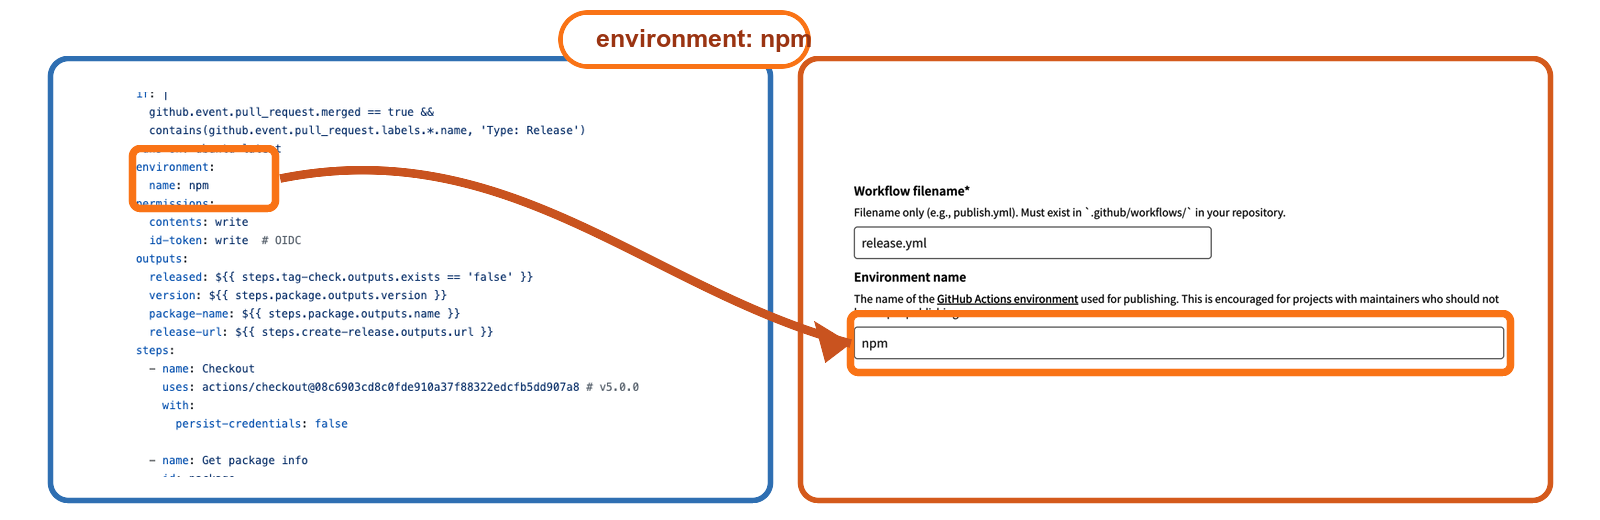
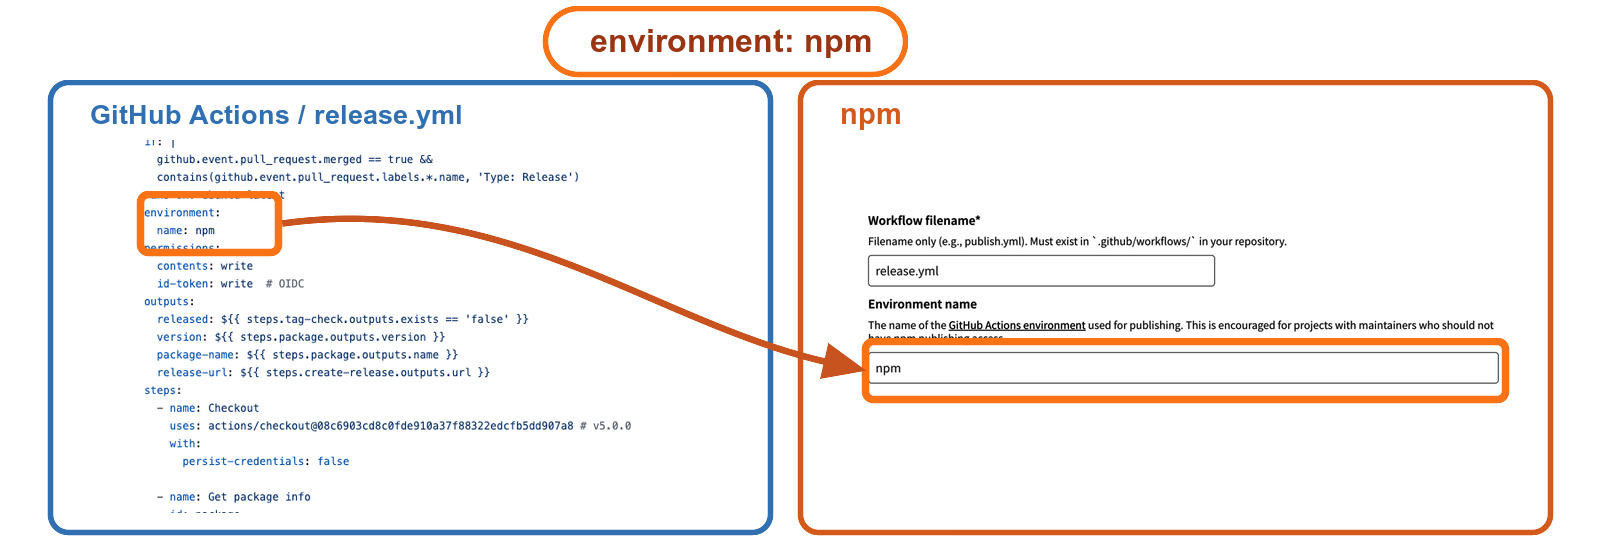
docs: npm公開フロー図を調整

diff --git a/2026/hardening-npm-publishing/slide.md b/2026/hardening-npm-publishing/slide.md
@@ -317,7 +317,7 @@ steps:
 
 # Environment名をnpm側と一致させる
 
-![inline 85%](img/environment-name-screenshots.png)
+![inline 72%](img/environment-name-screenshots.png)
 
 ^ `release.yml` の `environment: npm` はGitHub ActionsのEnvironment名。npm Trusted Publisherにも同じEnvironment nameとして `npm` を登録する。npmはOIDC tokenのclaimに含まれるrepository、workflow file、environmentを見て、登録されたTrusted Publisherと一致するとtoken exchangeする。workflowファイル名だけではなく、Environment名一致と、Environment側のApprove/ref制限まで通って初めてpublishへ進める。
 
@@ -380,26 +380,9 @@ steps:
 
 ---
 
-# 公開までの全体像
+![fit](img/publishing-overview-flow.png)
 
-![inline 95%](img/publishing-overview-flow.png)
-
-^ ここまでの話を一枚にまとめる。細部ではなく、LocalからUsersまでの経路、確認を入れる場所、この発表で扱った対策だけを見る。次のスライドで、この流れをSLSAのSource / Build / Publish / Distribution / Usageに置き直す。
-
----
-
-# SLSAの流れで振り返る
-
-![right fit](img/slsa-threats.png)
-
-- ソース側: PR / review
-- ビルド側: cacheなし / provenance
-- 公開前後: OIDC + Environment + staged
-- 今回の中心はpublish経路で止めること
-
-参考: [SLSA Threats](https://slsa.dev/spec/v1.2/threats)
-
-^ SLSAを認証や達成レベルの話として出すのではない。ここまで話した対策を、SLSAで定義されているサプライチェーンの流れに置き直す。SourceではPRとreview、Buildではcacheを持ち込まないこととprovenance、PublishではOIDC、Environment、staged publishing。今回の中心はArtifact publication(F)に相当するpublish経路。SLSAのBuild trackはbuildやprovenanceの改ざん耐性を上げる話だが、この発表では侵害されてもDistributionへ進ませない制御を中心に話している。
+^ ここまでの話を一枚にまとめる。細部ではなく、LocalからUsersまでの公開経路、確認を入れる場所、この発表で扱った対策だけを見る。この発表の中心は、侵害をゼロにすることではなく、悪いpackageがregistryへ出る前に止めること。
 
 ---
 
@@ -415,7 +398,7 @@ steps:
 1. 権限境界: publish権限へ進む前にApprove
 1. staged publishing: registry公開前にApprove
 
-^ 単独で完結する解決策はない。SLSAの脅威モデルでいうpublish地点に、複数の緩和策を置く。provenanceだけでなく、隔離の考え方とApproveを組み合わせる。目的は侵害をゼロにすることではなく、侵害後に悪いpackageがregistryへ出る経路を細くすること。
+^ 単独で完結する解決策はない。publish地点に複数の緩和策を置く。provenanceだけでなく、隔離の考え方とApproveを組み合わせる。目的は侵害をゼロにすることではなく、侵害後に悪いpackageがregistryへ出る経路を細くすること。
 
 ---
 
@@ -436,7 +419,6 @@ steps:
 - staged例: [github.com/azu/simple-npm-staged-publish-package-example](https://github.com/azu/simple-npm-staged-publish-package-example)
 - Bitwarden CLI侵害: [GMO Flatt Security Blog](https://blog.flatt.tech/entry/bitwarden_compromise)
 - TanStack侵害(cache poisoning): [tanstack.com/blog/npm-supply-chain-compromise-postmortem](https://tanstack.com/blog/npm-supply-chain-compromise-postmortem)
-- SLSA Threats: [slsa.dev/spec/v1.2/threats](https://slsa.dev/spec/v1.2/threats)
 - Mini Shai-Hulud(SLSAの境界): [slsa.dev/blog/2026/05/mini-shai-hulud-what-slsa-can-and-cannot-do](https://slsa.dev/blog/2026/05/mini-shai-hulud-what-slsa-can-and-cannot-do)
 - npm staged publishing: [docs.npmjs.com/staged-publishing](https://docs.npmjs.com/staged-publishing)
 - GitHub changelog: [`pull_request_target` and environment branch protections](https://github.blog/changelog/2025-11-07-actions-pull_request_target-and-environment-branch-protections-changes/)
